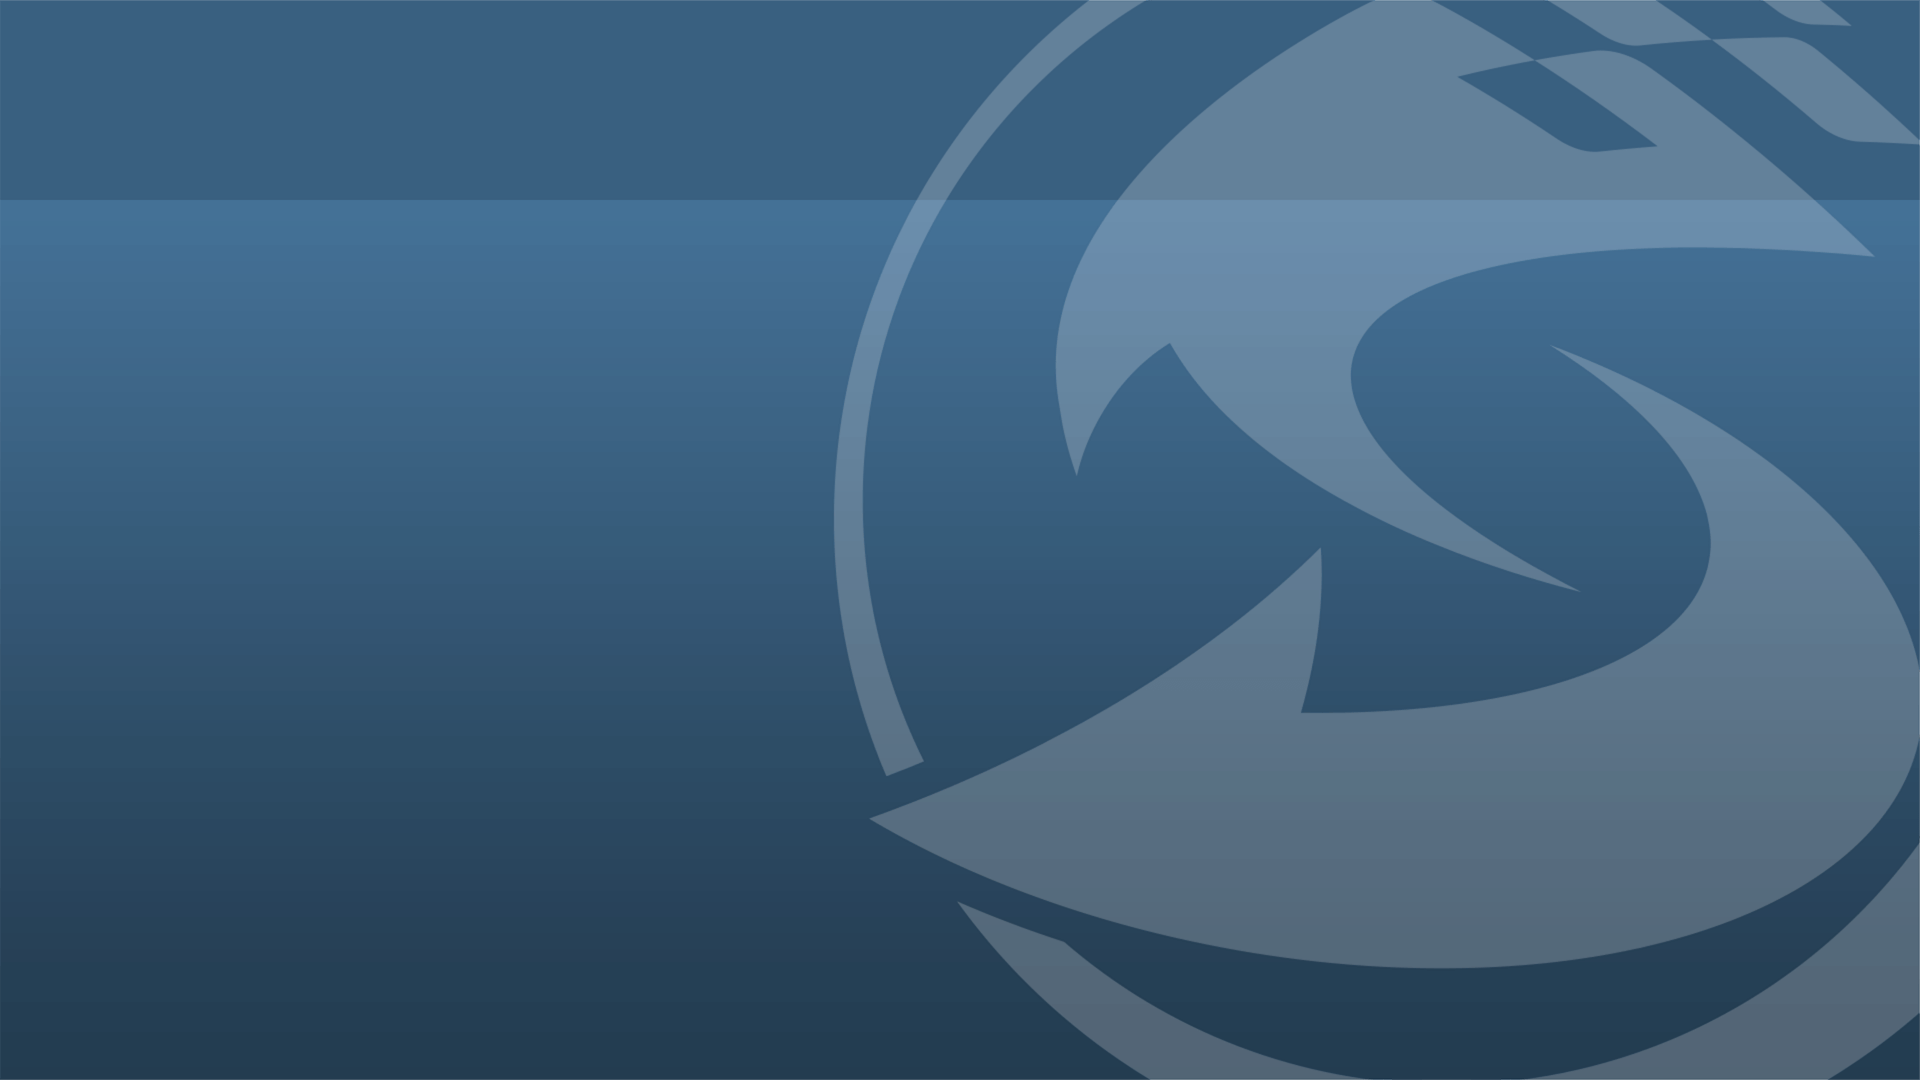
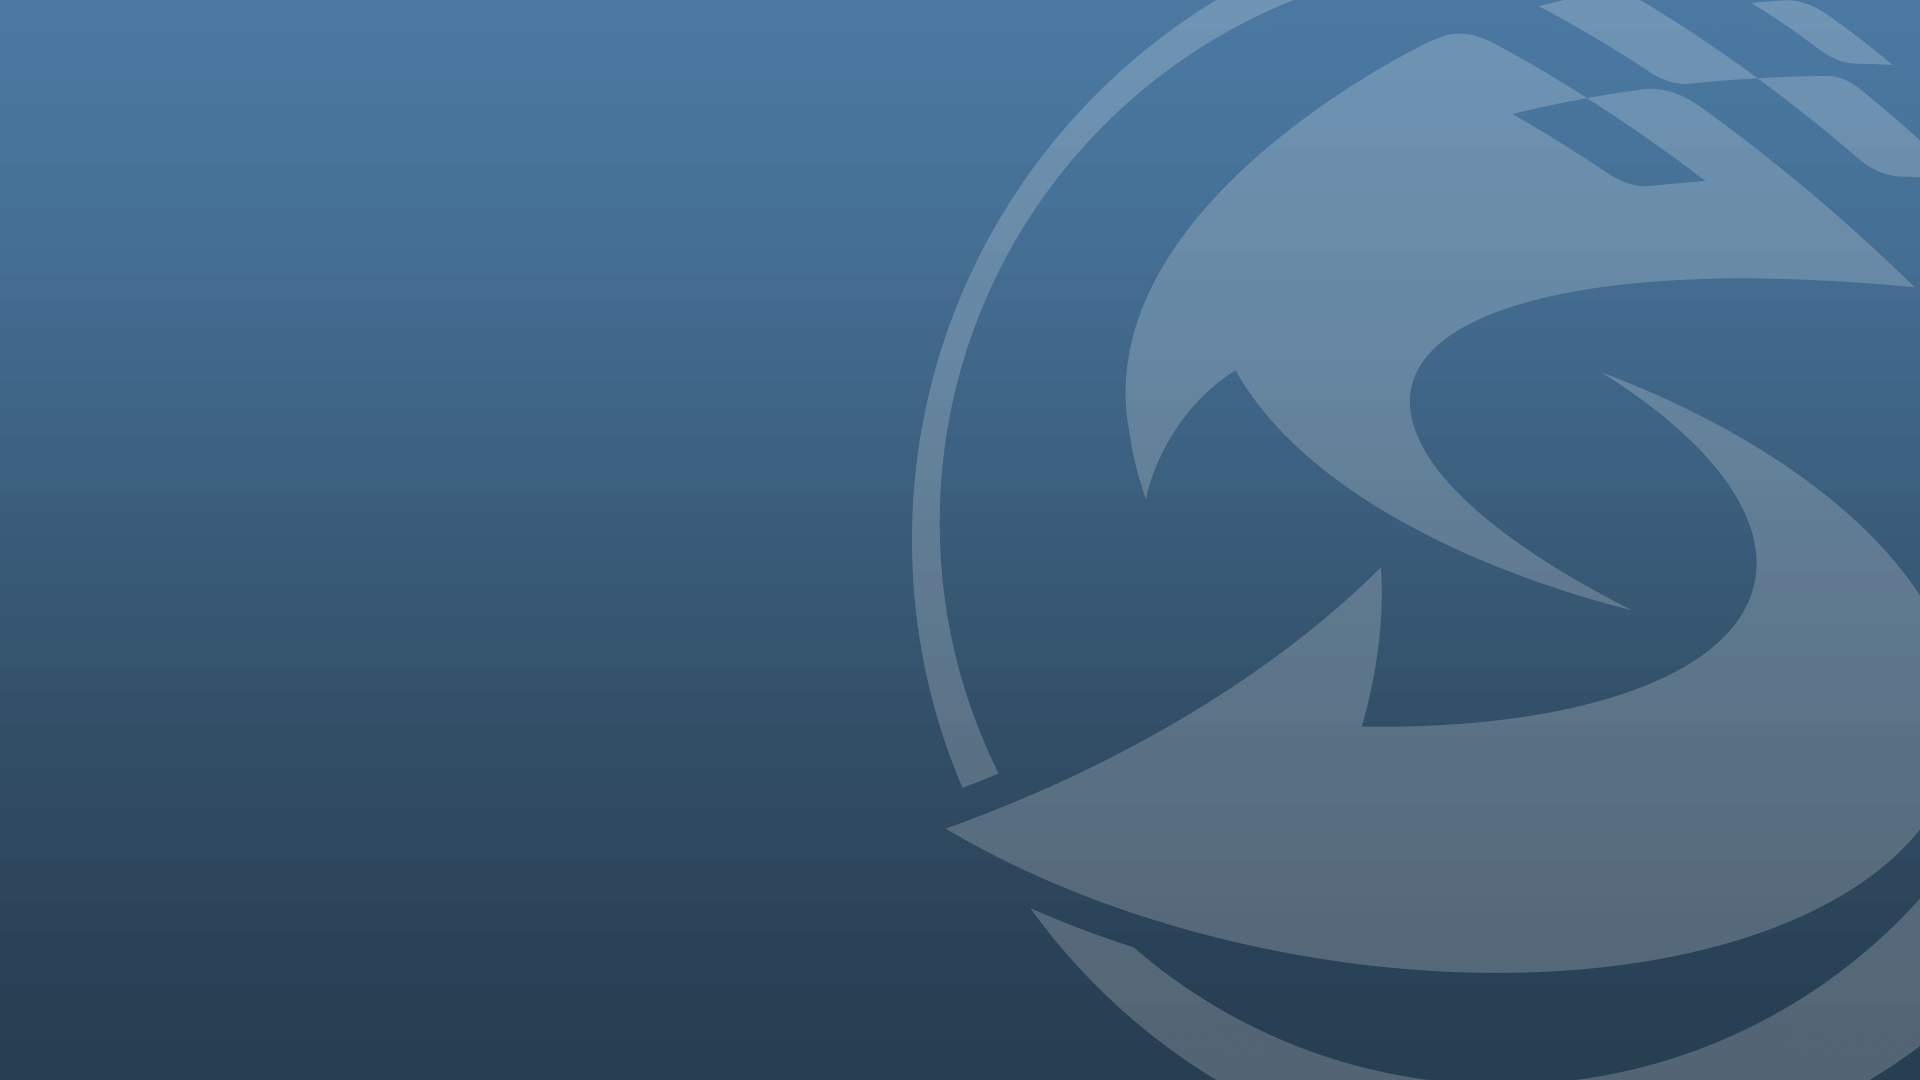
liuqing
首页添加，logo添加

diff --git a/src/views/index.vue b/src/views/index.vue
@@ -1,5 +1,47 @@
 <template>
     <div class="pageWrap">
+       <div class="h-header">
+           <div class="h-container">
+               <div class="h-logo">
+                   <img src="../assets/img/tdos_chat.png"/>
+                   <div class="h-logo-intro">
+                       <p class="pt">可信数据操作系统</p>
+                       <p class="pt-intro">Tursted Data Operation System</p>
+                   </div>
+               </div>
+               
+               <div class="home-title">
+                   <div class="line line1"></div>
+                   <span>DAPP广场</span>
+                   <div class="line line2"></div>
+               </div>
+
+               <div class="searchIn" :class="{'search_now':isSearch}">
+                   <input placeholder="请输入关键词" v-model="KeyWords"/>
+                   <a class="a-search pointer" @click="search"></a>
+               </div>
+
+           </div>
+       </div>
+
+       <div class="h-page-content">
+          <div class="h-container">
+              <div class="content-middle">
+                  <ul class="navIconList">
+                     <li v-for="(item,index) in iconList" :key="index" >
+                        <a class="pointer" @click="routeLink(item.link)">
+                         <div class="p-logo">
+                             <img :src="item.icon"/>
+                         </div>
+                          <div class="p-title">{{item.title}}</div>
+                        </a>
+                     </li>
+                  </ul>
+              </div>
+           </div>
+       </div>
+      
+       <!--
        <router-link target="_blank" to='/publicWelfare'>公益</router-link>
        <router-link target="_blank" to='/finance'>金融</router-link>
        <router-link target="_blank" to='/logistics'>物流</router-link>
@@ -20,14 +62,56 @@
     <router-link target="_blank" to='/authority'>TDOS权限</router-link>
         <router-link target="_blank" to='/flashLoan'>闪电贷</router-link>
         <router-link target="_blank" to='/coinExchange'>资产互换</router-link>
+        -->
          
     </div>
 </template>
 <script>
+ import {utils} from '@/assets/js/pattern'
 export default {
     data(){
         return{
-
+            isSearch:false,//搜索是否展开
+            iconList:[
+               {title:'病历共享',icon:require('../assets/img/logo_medicalTreatment.png'),link:'/medicalTreatment'},
+               {title:'物流',icon:require('../assets/img/logo_logistics.png'),link:'/logistics'},
+               {title:'金融',icon:require('../assets/img/logo_finance.png'),link:'/finance'},
+               {title:'公益慈善',icon:require('../assets/img/logo_publicWelfare.png'),link:'/publicWelfare'},
+               {title:'音乐版权',icon:require('../assets/img/logo_musicCopyright.png'),link:'/musicCopyright'},
+               {title:'保险理赔',icon:require('../assets/img/logo_insurance.png'),link:'/Insurance'},
+               {title:'著作版权',icon:require('../assets/img/logo_bookCopyright.png'),link:'/bookCopyright'},
+               {title:'购物溯源',icon:require('../assets/img/logo_shopping.png'),link:'/shopping'},
+               {title:'焊接查证',icon:require('../assets/img/logo_welding.png'),link:'/welding'},
+               {title:'资产继承',icon:require('../assets/img/logo_assets.png'),link:'/assets'},
+                {title:'资产互换',icon:require('../assets/img/logo_coinExchange.png'),link:'/coinExchange'},
+               {title:'发行代币',icon:require('../assets/img/logo_issueCoins.png'),link:'/issueCoins'},
+               {title:'投票',icon:require('../assets/img/logo_vote.png'),link:'/vote'},
+               {title:'公益众筹',icon:require('../assets/img/logo_crowdFunding.png'),link:'/crowdFunding'},
+               {title:'聊天Talk',icon:require('../assets/img/logo_chat.png'),link:'/chat'},
+                {title:'闪电贷',icon:require('../assets/img/logo_flashLoan.png'),link:'/flashLoan'},
+               {title:'加密熊',icon:require('../assets/img/logo_cryptoBear.png'),link:'/cryptoBear'},
+               {title:'通讯录',icon:require('../assets/img/logo_addressBook.png'),link:'/addressBook'},
+               {title:'相册',icon:require('../assets/img/logo_album.png'),link:'/album'},
+               {title:'TDOS权限',icon:require('../assets/img/logo_authority.png'),link:'/authority'},
+      
+           ],
+           KeyWords:''//搜索关键词
+        }
+    },
+    methods:{
+        routeLink(path){
+            let that = this;
+            that.$router.push({path:path}).catch(err => { console.log(err) })
+        },
+        search(){
+            let that = this;
+            if(!that.isSearch){
+               that.isSearch = true
+            }else{
+               if( utils.isNullOrEmpty(that.KeyWords)){
+                    return that.$toast('请输入搜索关键词', 3000)
+                }
+            }
         }
     }
 }

diff --git a/src/assets/less/index.less b/src/assets/less/index.less
@@ -1,1 +1,42 @@
-.pageWrap{background: url(../img/home_bg.png); background-size: cover; -webkit-background-size: cover;}
+.pageWrap{background: url(../img/home_bg.png) bottom right no-repeat; background-size: cover; -webkit-background-size: cover;}
+
+.h-container{width:1420px;margin: 0 auto;}
+
+.h-header{
+    background:rgba(60,96,127,.6); padding:20px 0; height:80px; min-width:1420px;
+    .h-container{position: relative; width:1260px}
+    .h-logo img{width:80px;height:80px;vertical-align: middle; margin-right: 10px;}
+    .h-logo-intro{
+        display: inline-block; vertical-align: middle;
+        .pt{font-size: 18px;color:#fff;}
+        .pt-intro{font-size:12px; color:#fff; padding-top: 5px;}
+    }
+    .home-title{
+        width:226px;position: absolute;left:50%;margin-left:-113px;height: 50px; line-height: 50px;top:50%;margin-top: -25px; text-align: center;
+        span{font-size:36px;color:#fff;}
+        .line{width:20px;height: 4px;background:#fff;}
+        .line1{position: absolute;left:0px;top:50%;margin-top:-2px;}
+        .line2{position: absolute;right:0px;top:50%;margin-top:-2px;}
+    }
+
+    .searchIn{width:40px;height:40px;position: absolute; right:0px;top:50%; margin-top:-20px;
+       background:#fff;.borderRadius(5px,5px,5px,5px); overflow: hidden; 
+       .a-search{width:40px;height:40px;display: block; background:#fff url(../img/h_search.png) center no-repeat; position: absolute; right:0px;top:0px;z-index:1;}
+    }
+    .searchIn.search_now{
+        width:280px; padding-right: 60px; padding-left: 20px;
+        input{width:100%;line-height: 40px; font-size: 16px;}
+    }
+}
+
+
+
+.h-page-content{
+    height:-moz-calc(100% - 120px) ;height:-webkit-calc(100% - 120px);height:calc(100% - 120px);
+    .h-container{display: table;height:100%;}
+    .p-title{font-size:24px;color:#fff; margin-top: 5px;}
+    .navIconList{font-size:0px;
+       li{display: inline-block; font-size:24px; width: 20%; text-align: center; padding: 30px 0;}
+       li > a{display: inline-block; }
+    }
+}

diff --git a/src/views/addressBook/index.vue b/src/views/addressBook/index.vue
@@ -14,7 +14,7 @@
                          <p class="functMess">当前暂无联系人，请点击右上方的按钮进行添加~</p>
                      </div>
 
-                     <div class="data-box">
+                     <div class="data-box" v-if="isData">
                         <div class="data-left">
                             <div class="data-content">
                                 <div class="searchbox">
@@ -200,7 +200,7 @@ export default {
             let addr = publicKey2Address(pk);
             let books = await getAddressBooks(addr);
 
-
+            books.length>0?that.isData=true:that.isData=false
             that.addressList = [];
             await Promise.all(books.map(async item => {
                     await  getTransaction(item.hash).then(t => {

diff --git a/src/assets/less/flashLoan.less b/src/assets/less/flashLoan.less
@@ -5,7 +5,9 @@
 .flash-form{
     width:1100px; margin: 0 auto;.borderRadius(5px,5px,5px,5px); overflow: hidden;background: #F9F9F9;
     .f-header{padding:0 20px;height:110px;background: #39415A;font-size:24px;color:#fff; line-height: 110px; position: relative;}
-    .logo{width:60px;height:60px; display: inline-block; vertical-align: middle; margin-right: 20px; background: #f9f9f9;}
+    .logo{width:60px;height:60px; display: inline-block; vertical-align: middle; margin-right: 20px;
+       img{width:100%;height:100%; vertical-align: top;}
+    }
 
     .f-header-search{width:80px;height:40px;position: relative; float: right; margin-top:35px;}
     .isSearch{width:360px;background:#fff;.borderRadius(5px,5px,5px,5px); padding-right: 100px; padding-left: 20px;

diff --git a/src/assets/less/addressBook.less b/src/assets/less/addressBook.less
@@ -64,8 +64,8 @@
     li{
         background: #F4F4F4;.borderRadius(5px,5px,5px,5px);
         border: 2px solid #cfcfcf; padding: 15px 10px 15px 20px; margin-top: 10px;
-        .li-userName{background: url(../img/ab_name.png) left center no-repeat; padding-left: 30px; }
-        .li-phone{background: url(../img/ab_phone.png) left center no-repeat; padding-left: 30px;margin-left: 40px;}
+        .li-userName{background: url(../img/ab_name.png) left center no-repeat; padding-left: 30px; padding-top: 5px; padding-bottom: 5px; }
+        .li-phone{background: url(../img/ab_phone.png) left center no-repeat; padding-left: 30px;margin-left: 40px;padding-top: 5px; padding-bottom: 5px;}
     }
 }
 

diff --git a/src/assets/less/common.less b/src/assets/less/common.less
@@ -79,8 +79,9 @@ h1,h2,h3,h4,h5{font-weight: normal;}
 
 
 .logo-intro{position: absolute; top:80px;text-align: center; width: 100%; line-height: 82px;
-  .logo{width:80px;height:80px;display: inline-block; vertical-align:top;border:1px solid @h-btn-white}
+  .logo{width:80px;height:80px;display: inline-block; vertical-align:top;/*border:1px solid @h-btn-white*/}
   font-size:@f-fise48; color:@h-btn-white; 
+  .logo img{width:100%;height:100%;vertical-align: top;}
 }
 
 .search-wrap{

diff --git a/src/assets/less/vote.less b/src/assets/less/vote.less
@@ -44,7 +44,7 @@
         }
        span{display: inline-block; vertical-align:top; background: #E8DF1E; font-size:24px;color:#333;
    padding: 0 2px; position: relative;
-        .line{position: absolute; width:100%; height: 1px; background:#333;left:0px;top:50%;margin-top: -.5px;}
+        .line{position: absolute; width:100%; height: 0px; background:#333;left:0px;top:50%;margin-top: -.5px;}
         }
            .number-1{margin-left: 40px;}
        }

diff --git a/src/assets/less/coinExchange.less b/src/assets/less/coinExchange.less
@@ -6,8 +6,8 @@
     span{display: inline-block;vertical-align: middle;}
 }
 .logo{
-    width:50px;height:50px; background:#AC3535; display: inline-block; vertical-align: middle; margin-right: 20px; margin-top:1px;
-    img{width:100%;min-height: 100%;}
+    width:50px;height:50px; display: inline-block; vertical-align: middle; margin-right: 20px; margin-top:1px;
+    img{width:100%;min-height: 100%; vertical-align: top;}
 }
 
 

diff --git a/src/views/bookCopyright/index.vue b/src/views/bookCopyright/index.vue
@@ -2,7 +2,7 @@
   <div class="pageWrap f-wrap-table bookCopyright-pagewrap">
     <explorer :isHome="isHome" :type="type"></explorer>
       <div class="logo-intro">
-         <div class="logo"></div>
+         <div class="logo"><img src="../../assets/img/logo_bookCopyright.png"/></div>
          TDOS著作版权
       </div>
       <div class="page-main content-middle">

diff --git a/src/views/musicCopyright/index.vue b/src/views/musicCopyright/index.vue
@@ -2,7 +2,7 @@
   <div class="pageWrap f-wrap-table music-pageWrap">
     <explorer :isHome="isHome" :type="type"></explorer>
       <div class="logo-intro">
-         <div class="logo"></div>
+         <div class="logo"><img src="../../assets/img/logo_musicCopyright.png"/></div>
          TDOS音乐
       </div>
       <div class="page-main content-middle">

diff --git a/src/views/logistics/index.vue b/src/views/logistics/index.vue
@@ -2,7 +2,7 @@
   <div class="pageWrap f-wrap-table logistics-pageWrap">
     <explorer :isHome="isHome" :type="type"></explorer>
       <div class="logo-intro">
-         <div class="logo"></div>
+         <div class="logo"><img src="../../assets/img/logo_logistics.png"/></div>
          TDOS物流
       </div>
       <div class="page-main content-middle">

diff --git a/src/views/medicalTreatment/index.vue b/src/views/medicalTreatment/index.vue
@@ -2,7 +2,7 @@
   <div class="pageWrap f-wrap-table pw-pageWrap">
     <explorer :isHome="isHome" :type="type"></explorer>
       <div class="logo-intro">
-         <div class="logo"></div>
+         <div class="logo"><img src="../../assets/img/logo_medicalTreatment.png"/></div>
          TDOS医疗
       </div>
       <div class="page-main content-middle">
